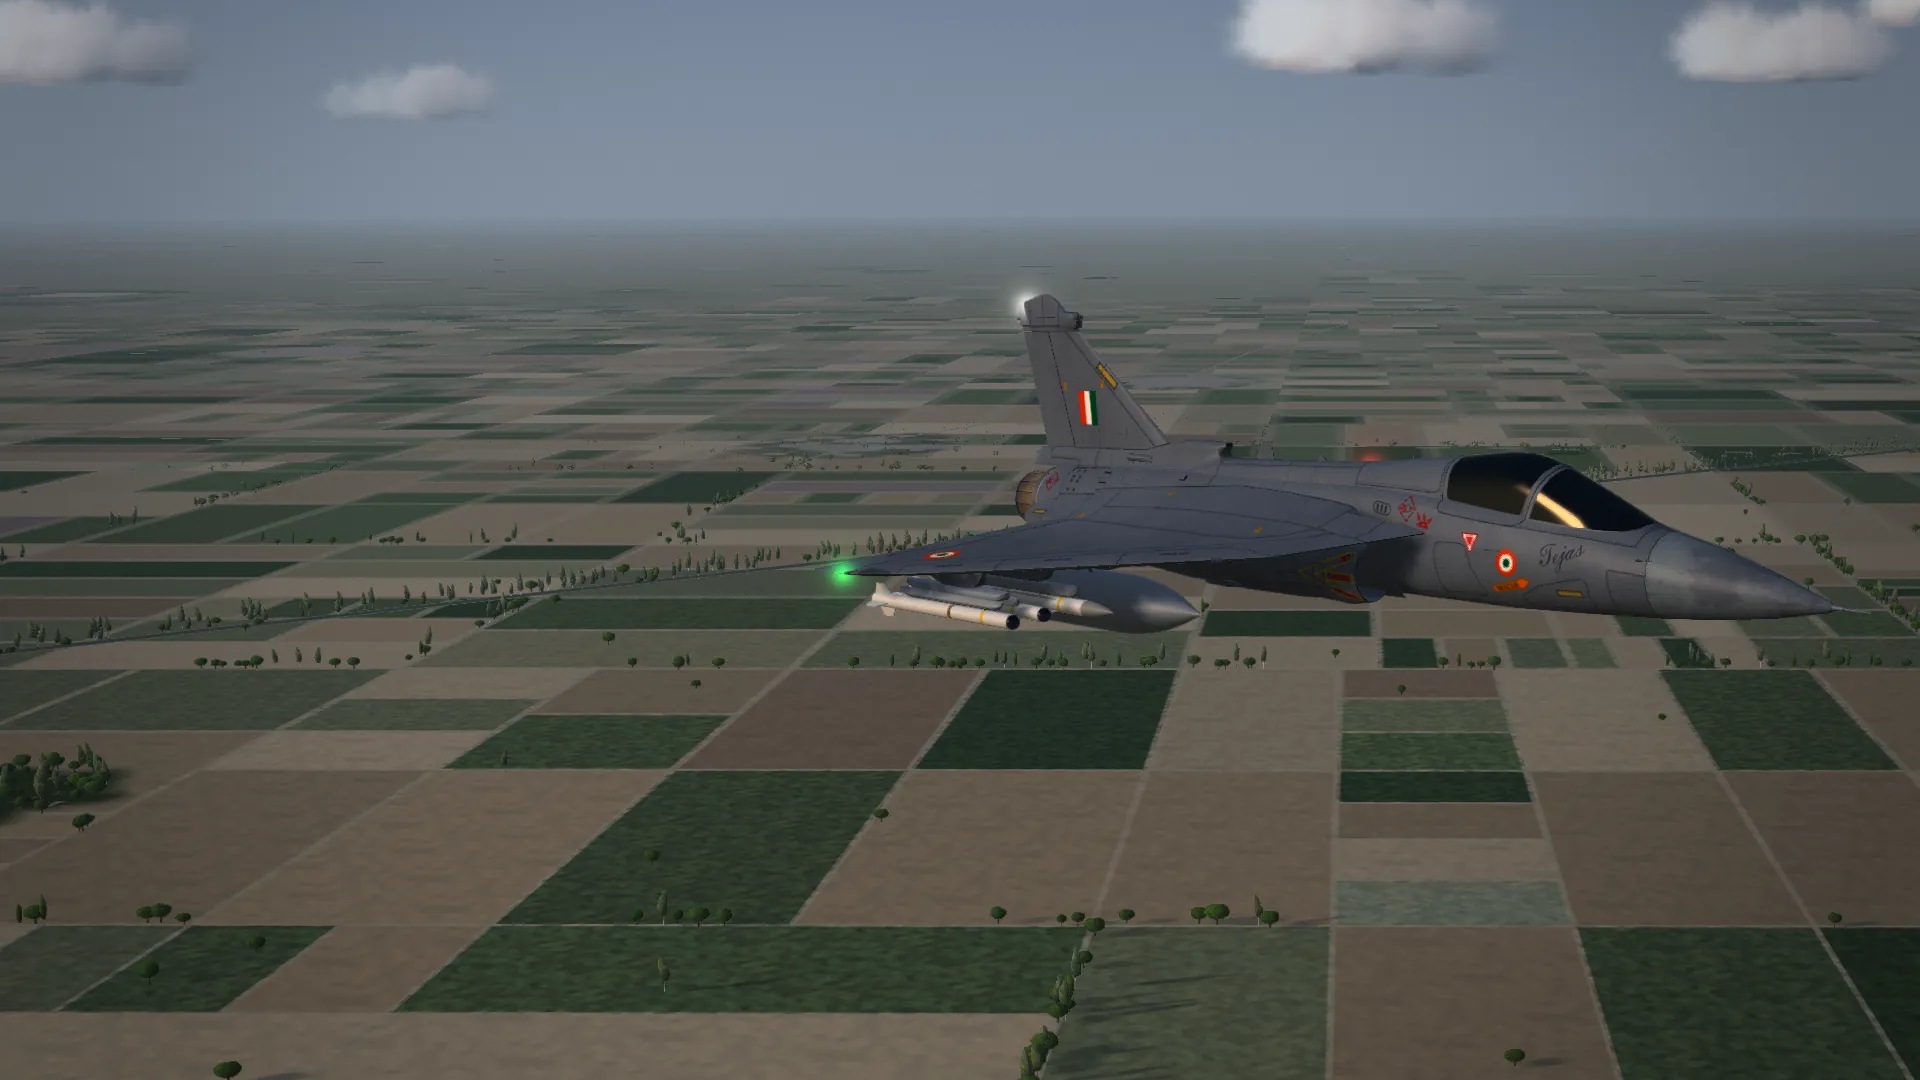
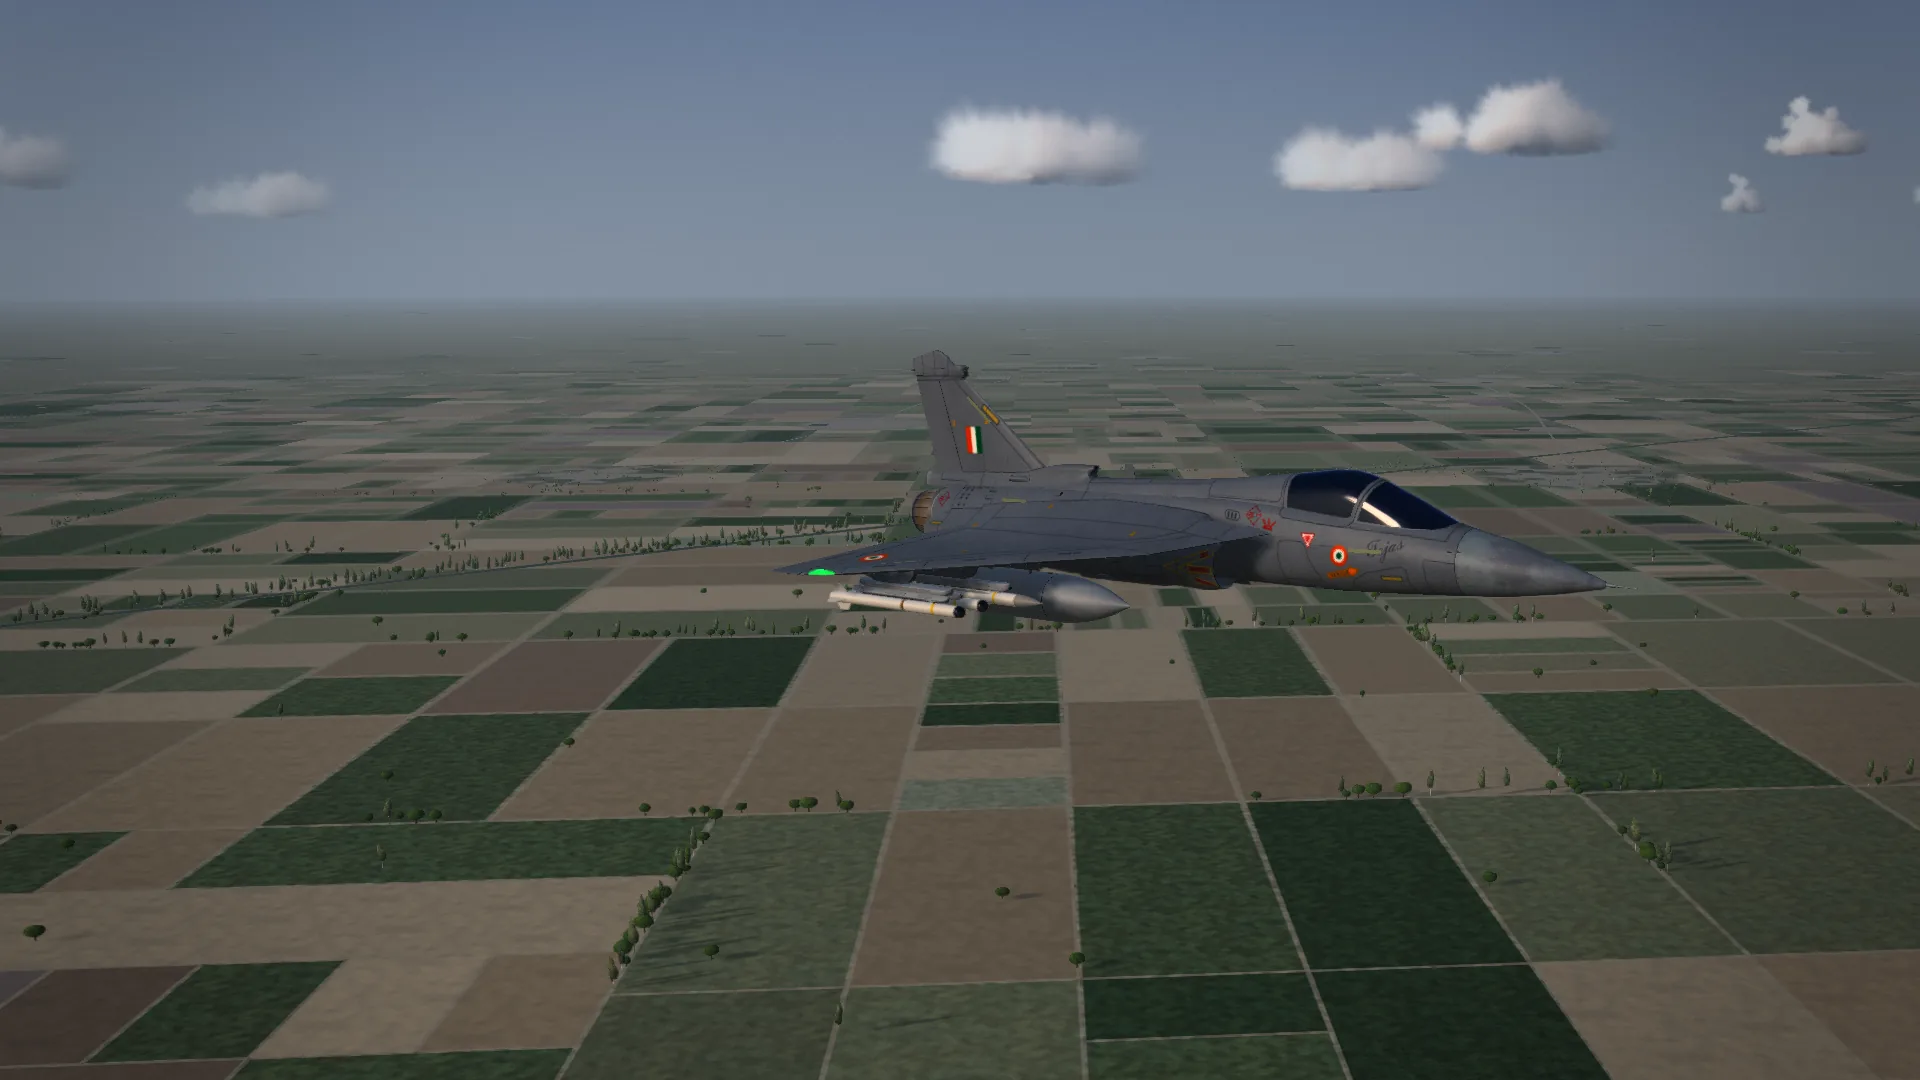
Landing page: fresh captures of the current renderer
Hero, free flight, missions, aircraft, pull-up, night and climb re-shot from
the menu cinematics and promo shots with today's lights, stores, canopy and
weapons effects. Missions now shows a Fox Two kill (ASRAAM hit, flares)
instead of the HUD chase; alt texts updated to match.

diff --git a/index.html b/index.html
@@ -77,7 +77,7 @@
             </span>
           </a>
           <a class="site-tile site-reveal" href="./play/#missions">
-            <img src="/src/site/media/missions.webp" alt="Chase view of a Tejas over Punjab with the head-up display and radar" width="1920" height="1080" loading="lazy" decoding="async" />
+            <img src="/src/site/media/missions.webp" alt="A Tejas over Punjab as its ASRAAM hits the bandit: the smoke trail, the fireball and the bandit's flares" width="1920" height="1080" loading="lazy" decoding="async" />
             <span class="site-tile-copy">
               <span class="site-tile-num">02</span>
               <span class="site-tile-title">Missions</span>
@@ -90,7 +90,7 @@
 
       <!-- The aircraft: full-bleed, specs over it. -->
       <section id="aircraft" class="site-feature" aria-labelledby="aircraft-title">
-        <img class="site-feature-media" src="/src/site/media/aircraft.webp" alt="A Tejas Mk1A from its rear quarter over the fields of Punjab, afterburner nozzle, tanks and missiles" width="1920" height="1080" loading="lazy" decoding="async" />
+        <img class="site-feature-media" src="/src/site/media/aircraft.webp" alt="A Tejas Mk1A from its rear quarter at dusk, afterburner lit, tanks and missiles under the wings" width="1920" height="1080" loading="lazy" decoding="async" />
         <div class="site-feature-panel site-reveal">
           <p class="site-kicker">The aircraft</p>
           <h2 id="aircraft-title" class="site-h2">HAL Tejas Mk1A</h2>
